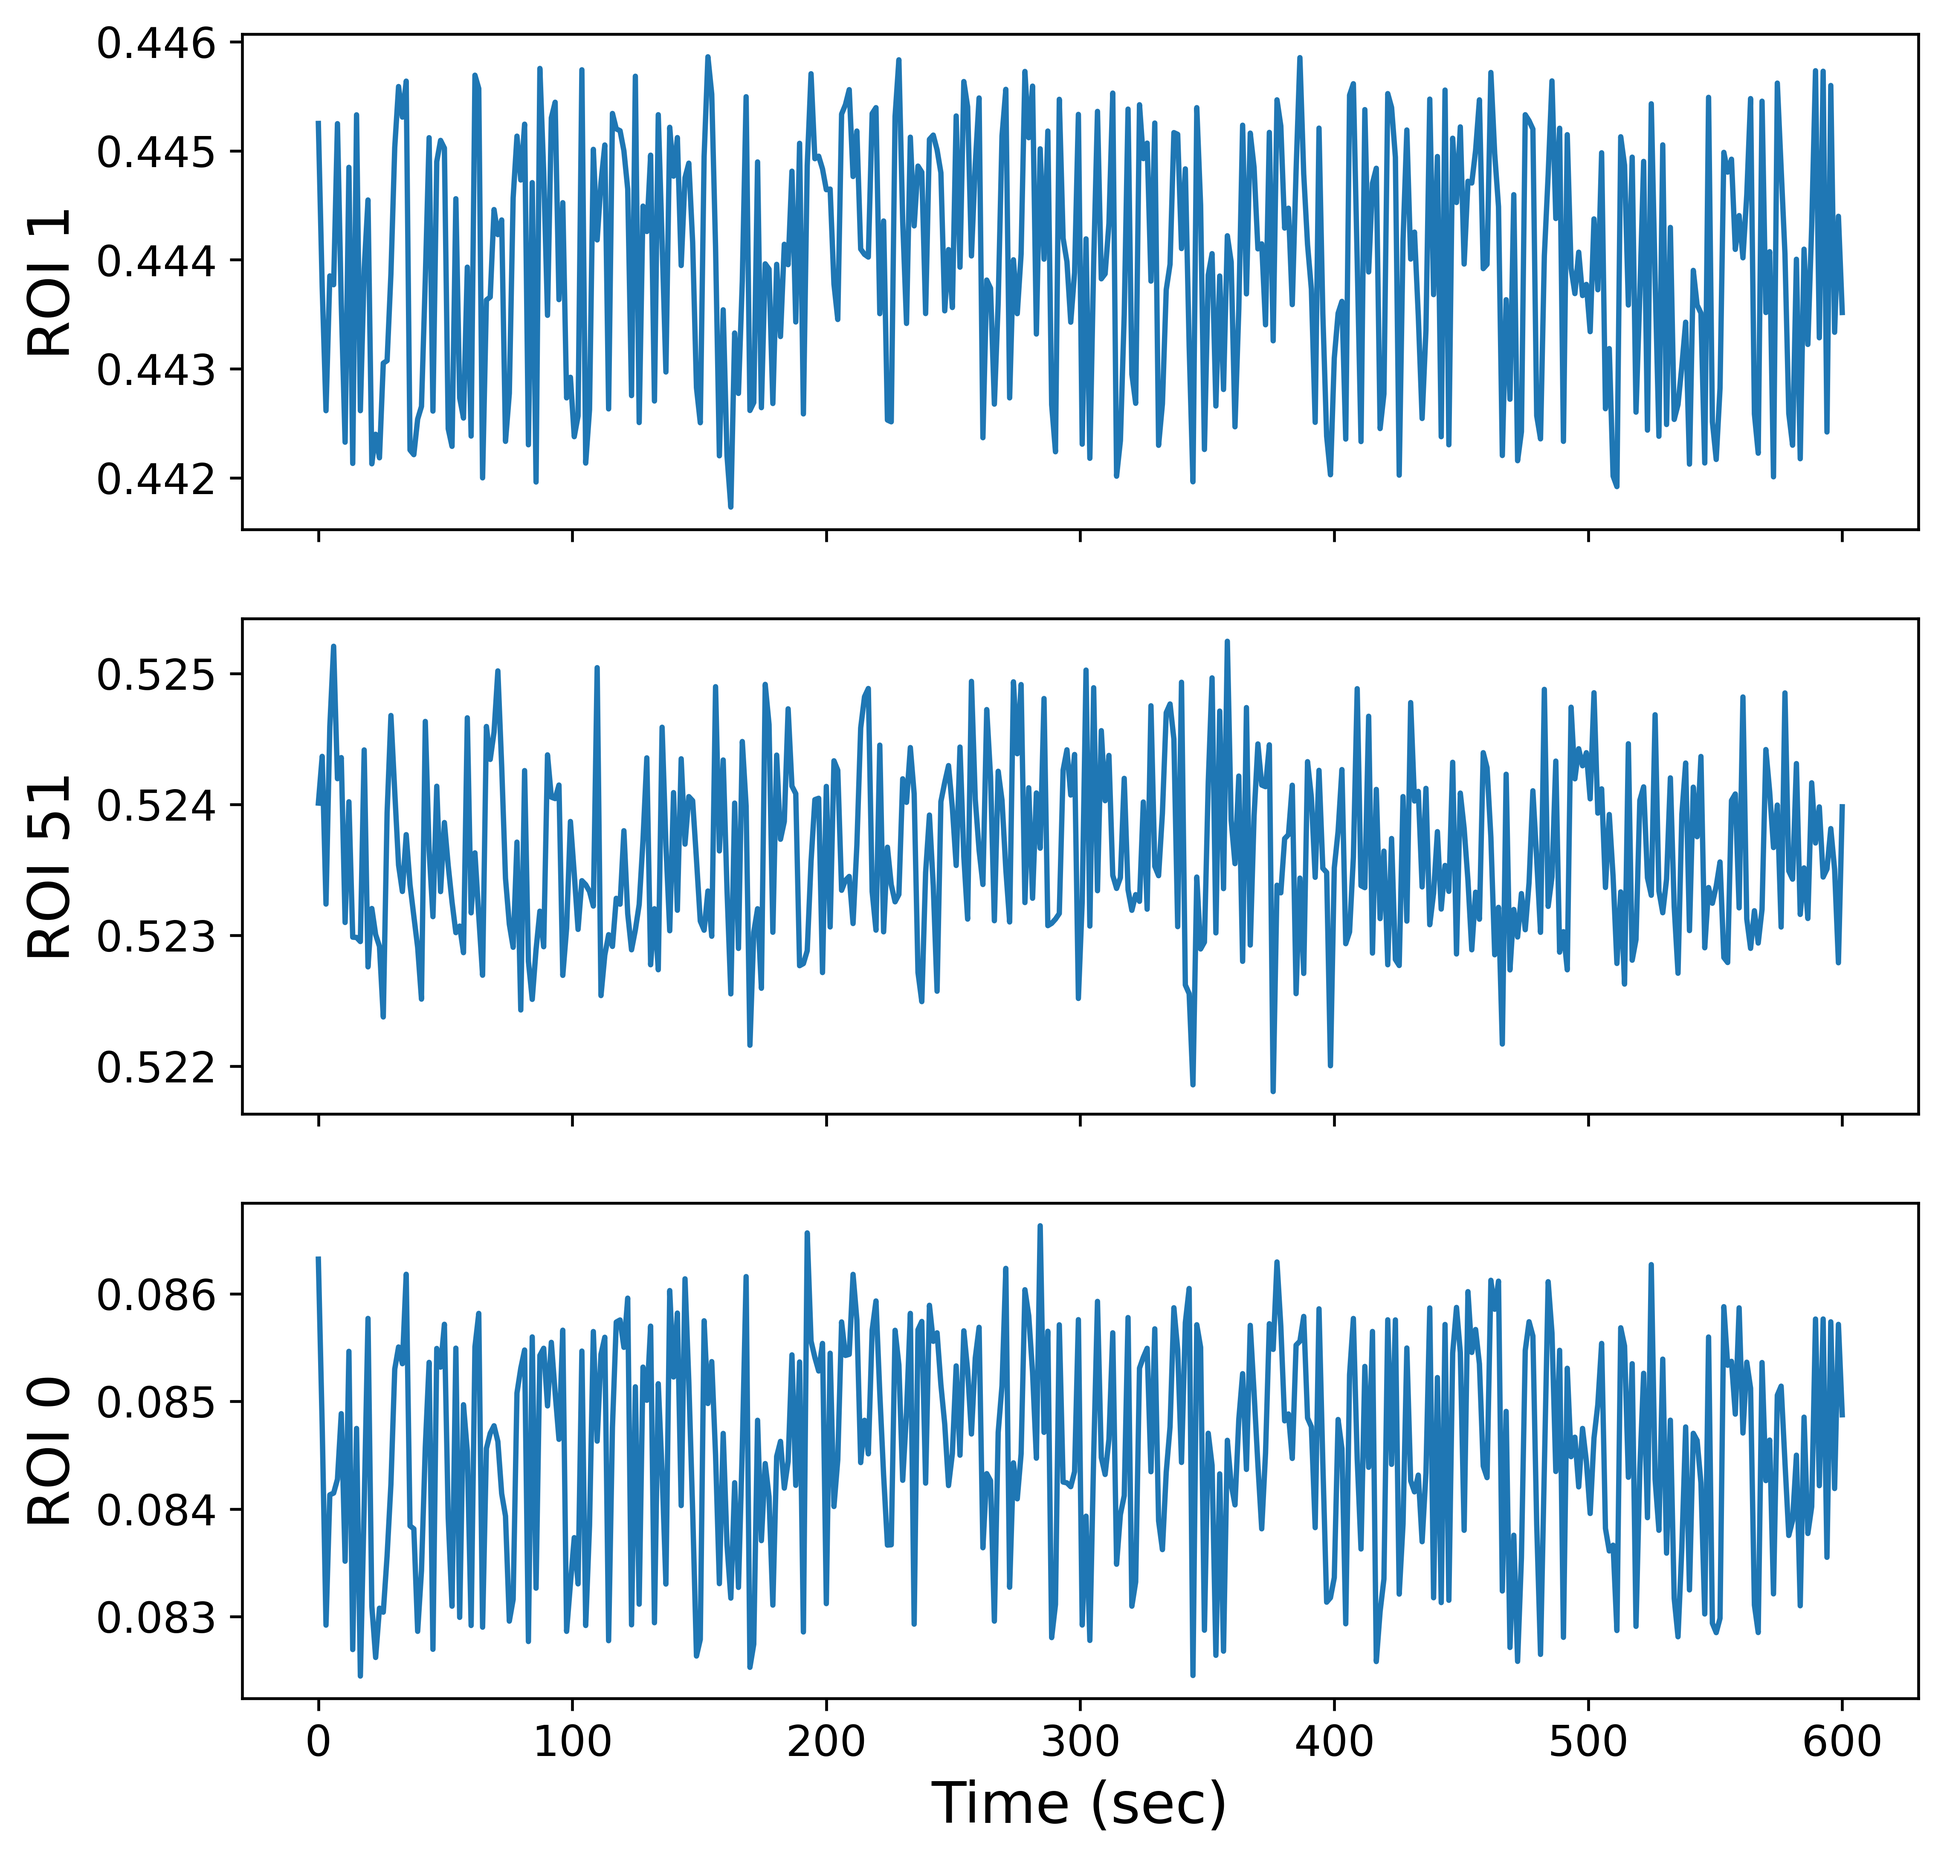
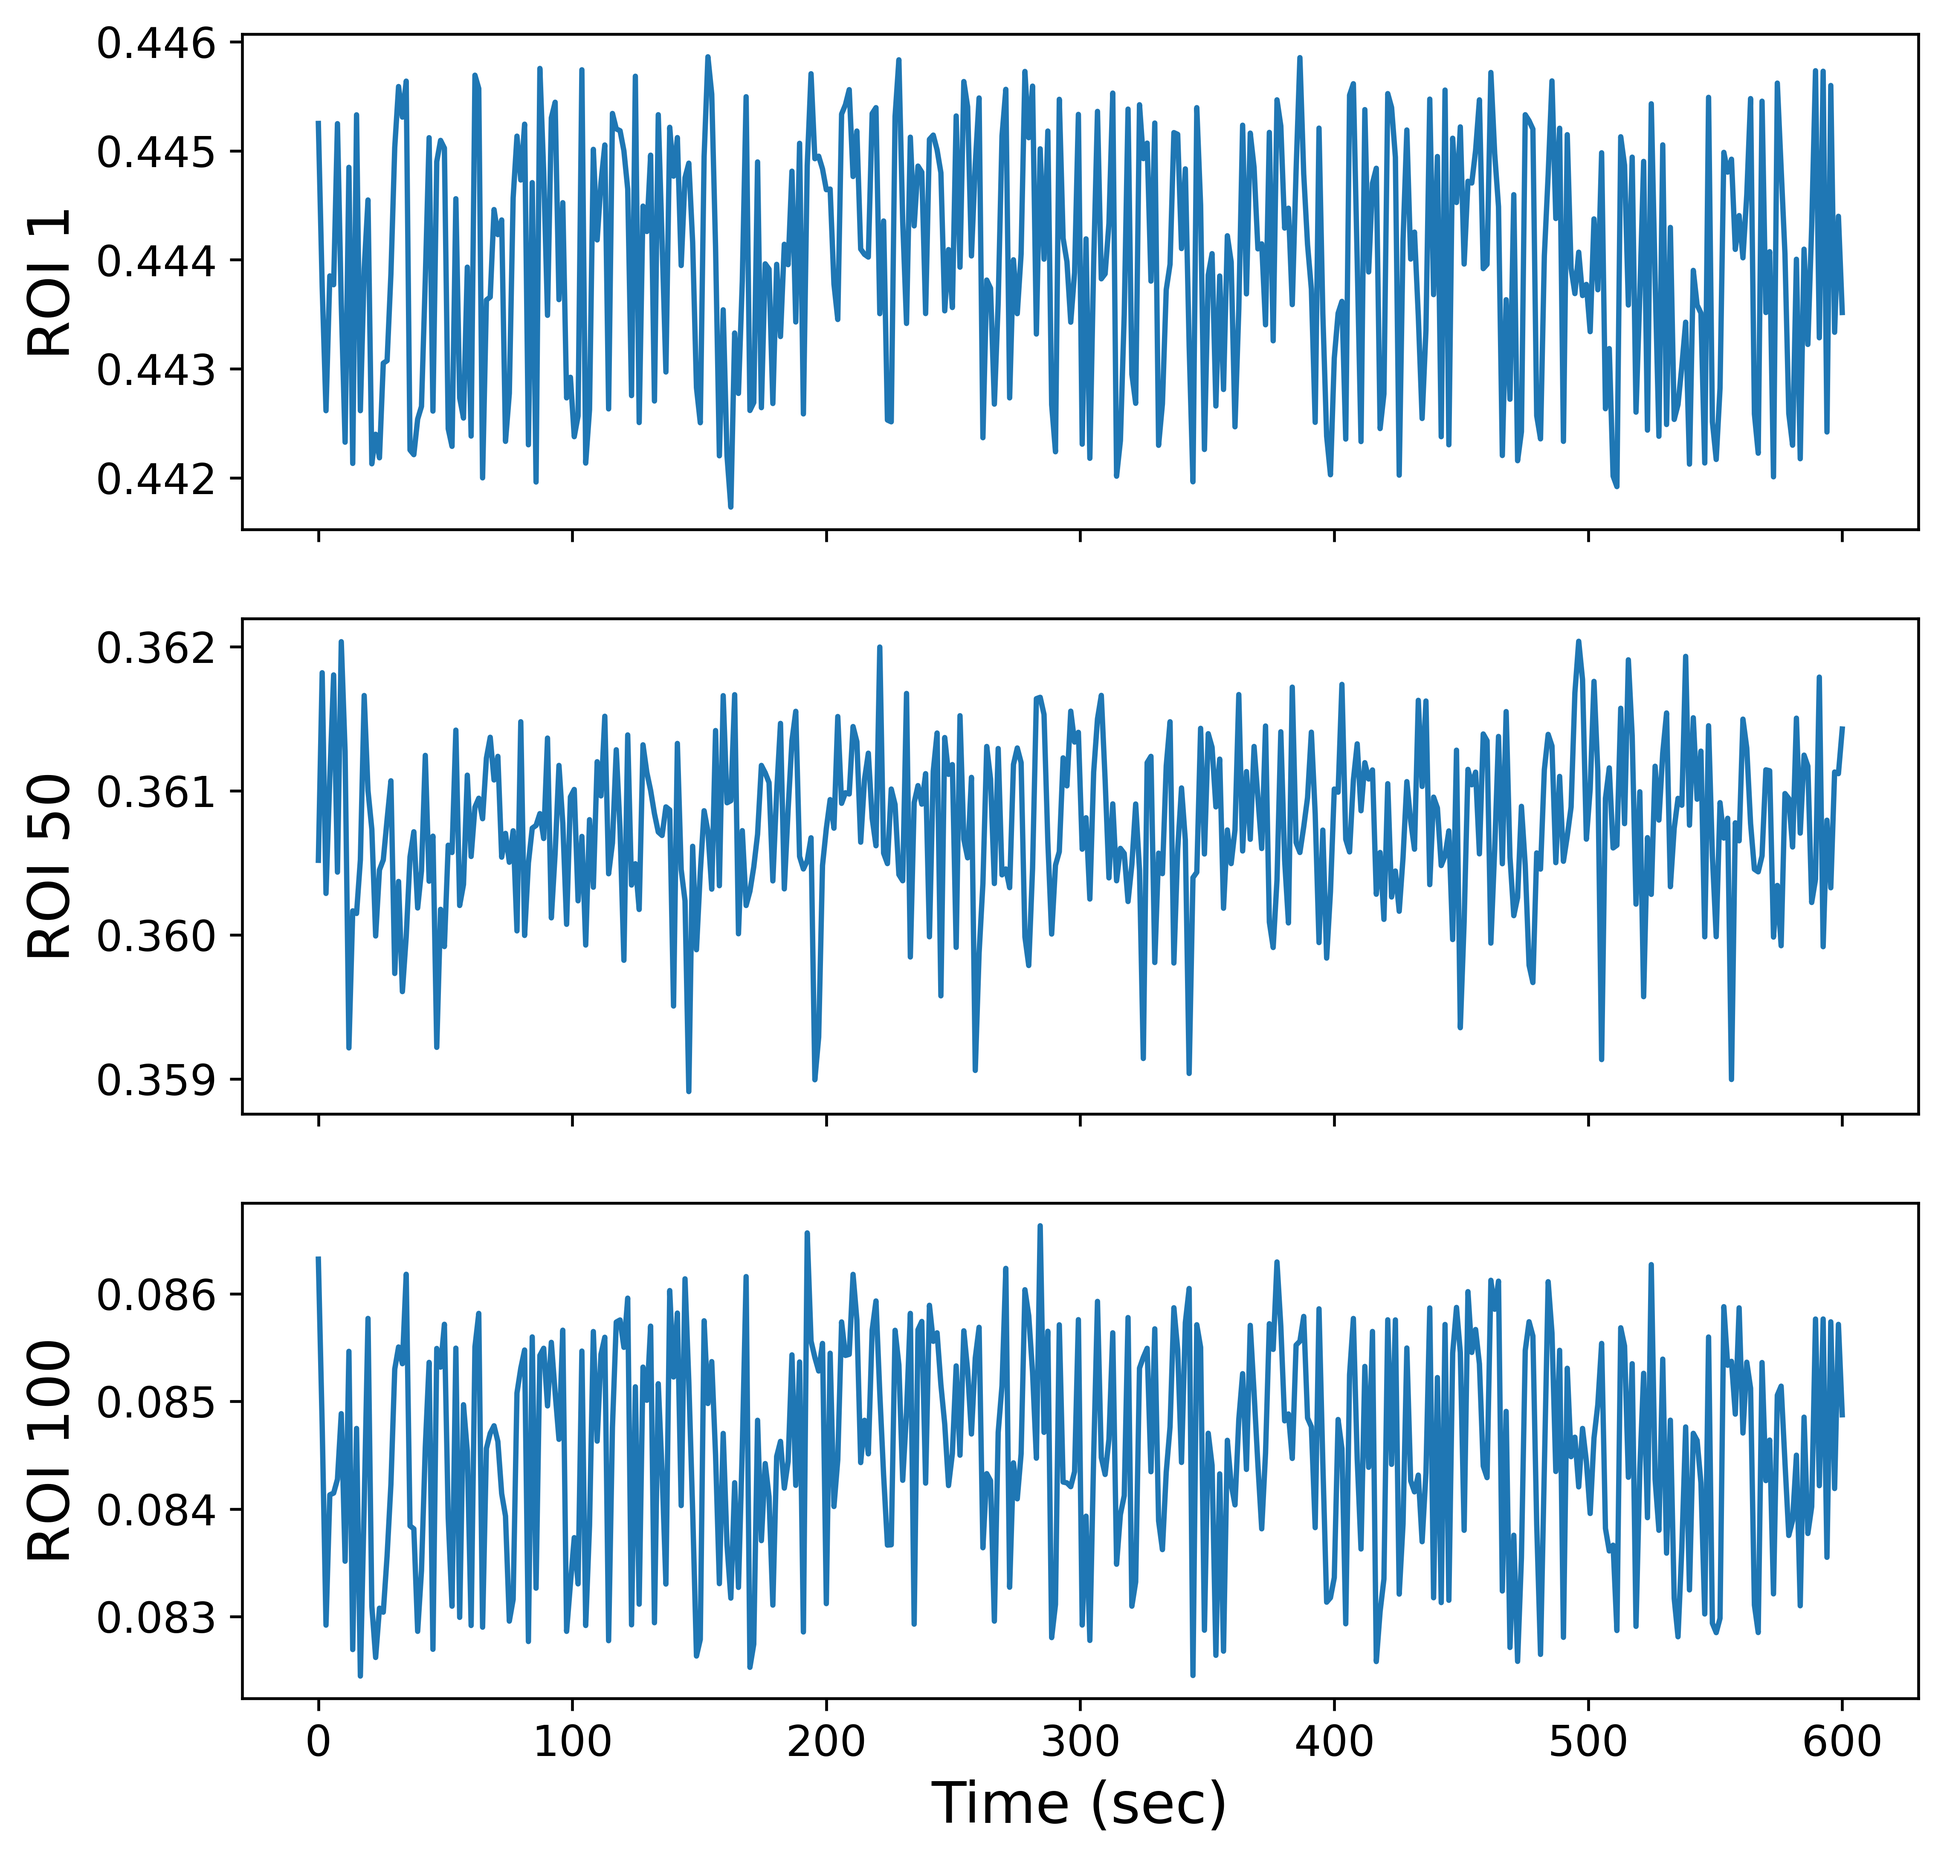
Update

diff --git a/plot_time_series_and_PSDs.py b/plot_time_series_and_PSDs.py
@@ -17,7 +17,7 @@ mpl.rcParams.update({
 def plot_three_subplots(x, data, title, filename):
     fig, axes = plt.subplots(3, 1, figsize=(8, 8), sharex=True)
 
-    indices = [0, 50, -1]
+    indices = [0, 49, 99]
     for ax, idx in zip(axes, indices):
         ax.plot(x, data[:400, idx])
         ax.set_ylabel(f'ROI {idx+1}')
